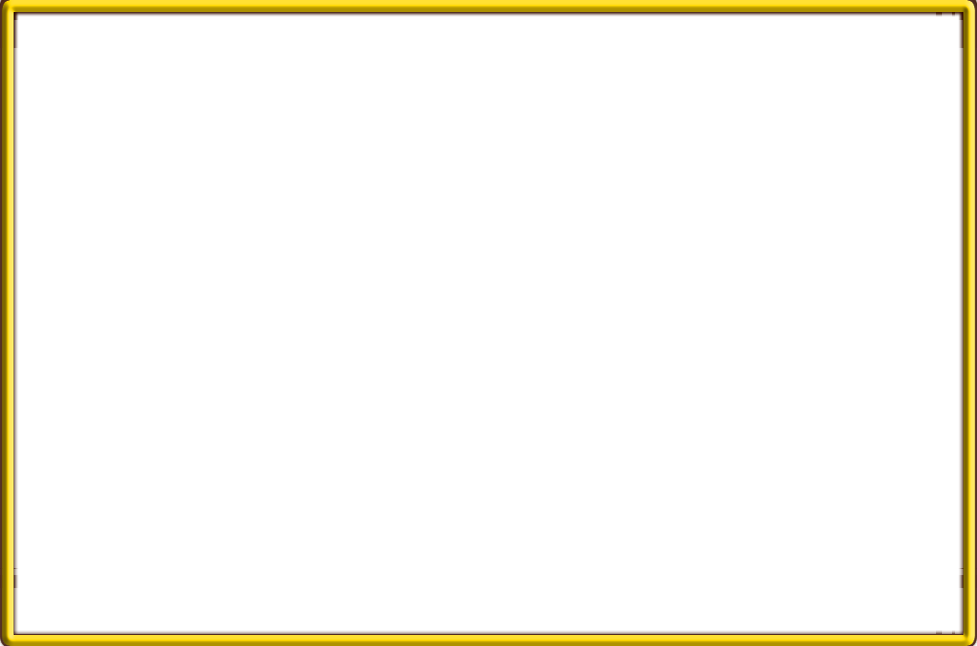
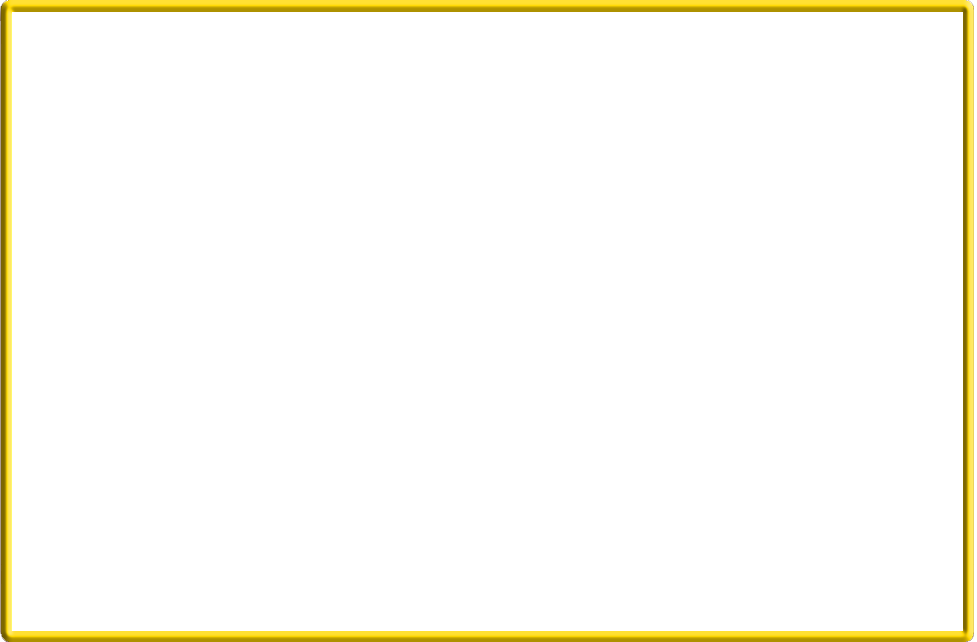
update the front resource

Changed region(s): [[0.0, 0.0, 1.0, 1.0]]

diff --git a/document/help/front/html/sec.html b/document/help/front/html/sec.html
@@ -49,7 +49,7 @@
             <div class="lt_nuowa" style="background:#FFF;">
                 <div class="sigert">
                 <strong style="color:#900;">您当前的位置：</strong><a href="/luoke/" target="_self">洛克王国</a>><a href="#" target="_self">洛克王国宠物大全</a>><a href="#" target="_self">土系</a>>正文</div>  
-                <p>洛克王国小炎_大炎_赤炎守护技能表</p>          
+                <h1><strong>洛克王国小炎_大炎_赤炎守护技能表</strong></h1>          
              
             </div>
              <p class="lt_nuowa_down"><img src="../images/xy.jpg" /></p>

diff --git a/document/help/front/index.html b/document/help/front/index.html
@@ -18,7 +18,7 @@
     
     <!--------------------------宽度一样的977px---------------------------------------->
     <div class="all">
-    	<div class="ban"><iframe id="frm" class="frm" src="http://192.168.0.116/index.html" width="956" height="646" frameborder="0" scrolling="no"></iframe></div>
+    	<div class="ban"><iframe id="frm" class="frm" src="http://192.168.0.116/index.html" width="956" height="640" frameborder="0" scrolling="no"></iframe></div>
 			<div class="nav_nuowa">
                 <div class="nuowa_bj0">
               	<p class="more"><a href="#">更多</a></p>

diff --git a/document/help/front/css/style.css b/document/help/front/css/style.css
@@ -11,7 +11,7 @@ body{background:#fff;}
 
 .all{width:977px;margin:0 auto;}
 .ban{width:977px;height:646px;background:url(../images/waikuang.png) no-repeat;margin:3px 0;position:relative;}
-.ban .frm{position:absolute;top:4px;left:8px;}
+.ban .frm{position:absolute;top:3px;left:7px;}
 
 
 .nav_nuowa{width:977px;overfolw:hidden;}

diff --git a/applications/webgame/views/nova/index.php b/applications/webgame/views/nova/index.php
@@ -8,7 +8,7 @@ function searchFunc()
 </script>
 <!--------------------------宽度一样的977px---------------------------------------->
 <div class="all">
-	<div class="ban"><iframe class="frm"  src="<?php echo $this->currentWebgameInfo['url_webgame']; ?>" width="956" height="646" frameborder="0" scrolling="no"></iframe></div>
+	<div class="ban"><iframe class="frm"  src="<?php echo $this->currentWebgameInfo['url_webgame']; ?>" width="956" height="640" frameborder="0" scrolling="no"></iframe></div>
 		<div class="nav_nuowa">
 			<div class="nuowa_bj0">
 				<p class="more"><a href="<?php echo $this->categoryInfos[16]['url']; ?>" target="_blank">更多</a></p>
